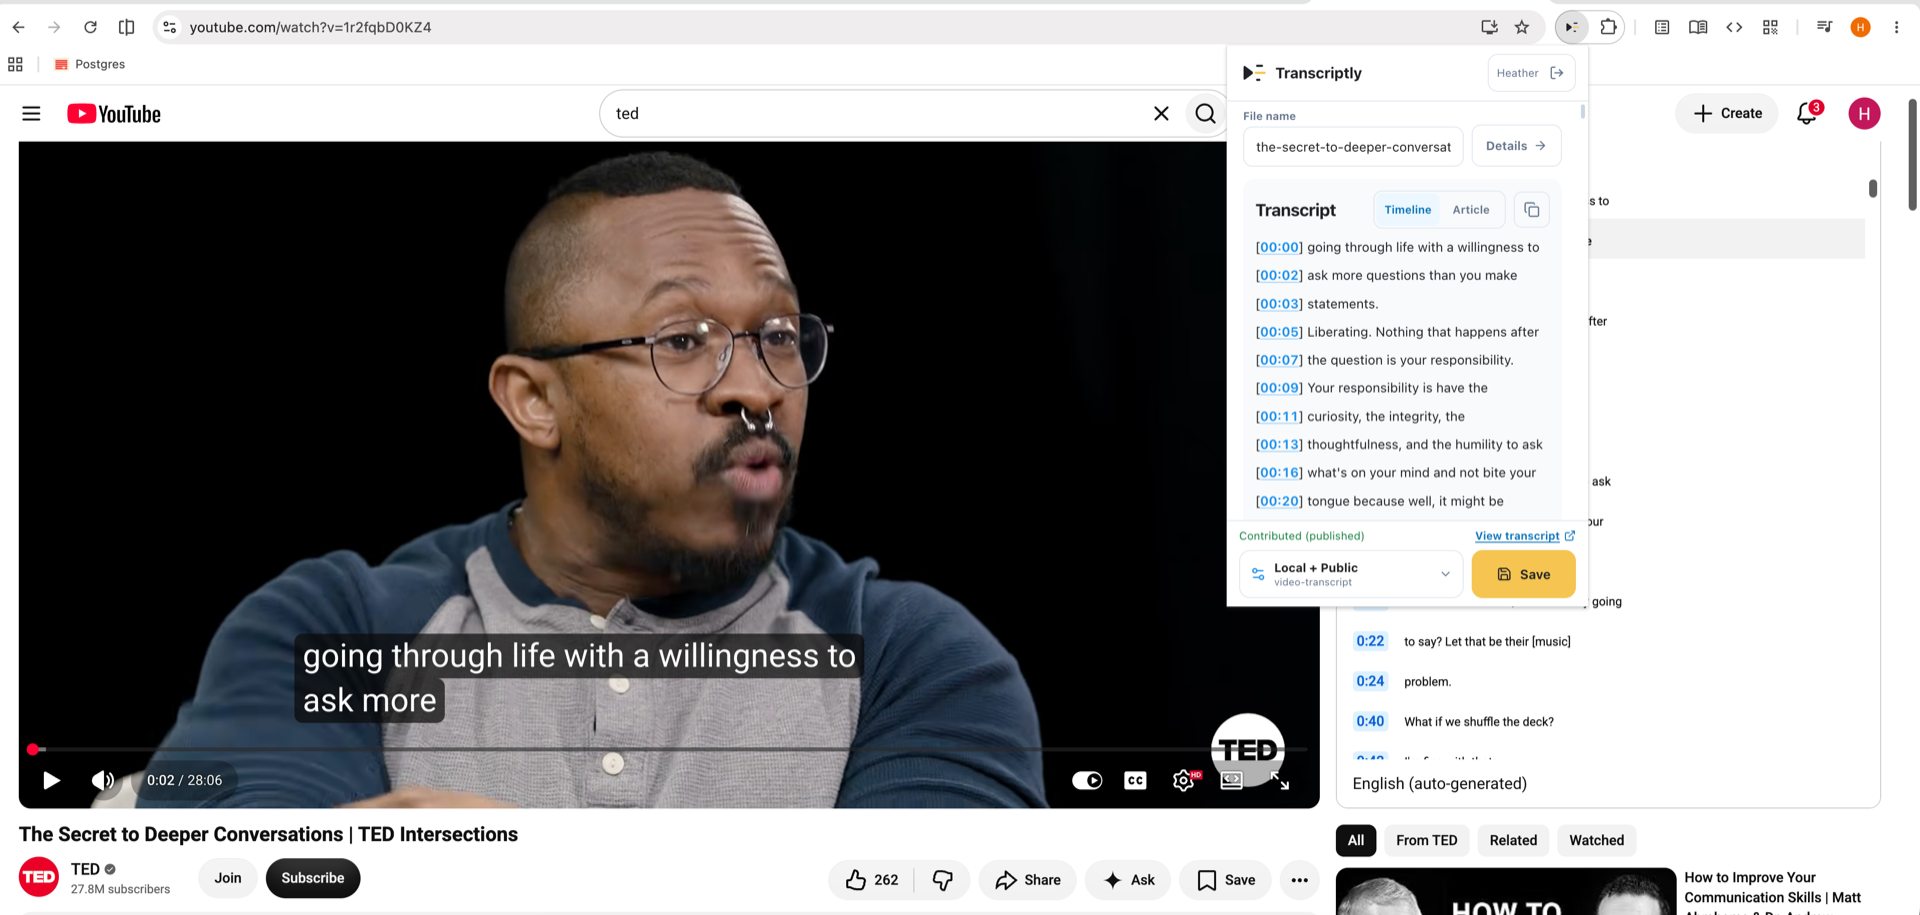
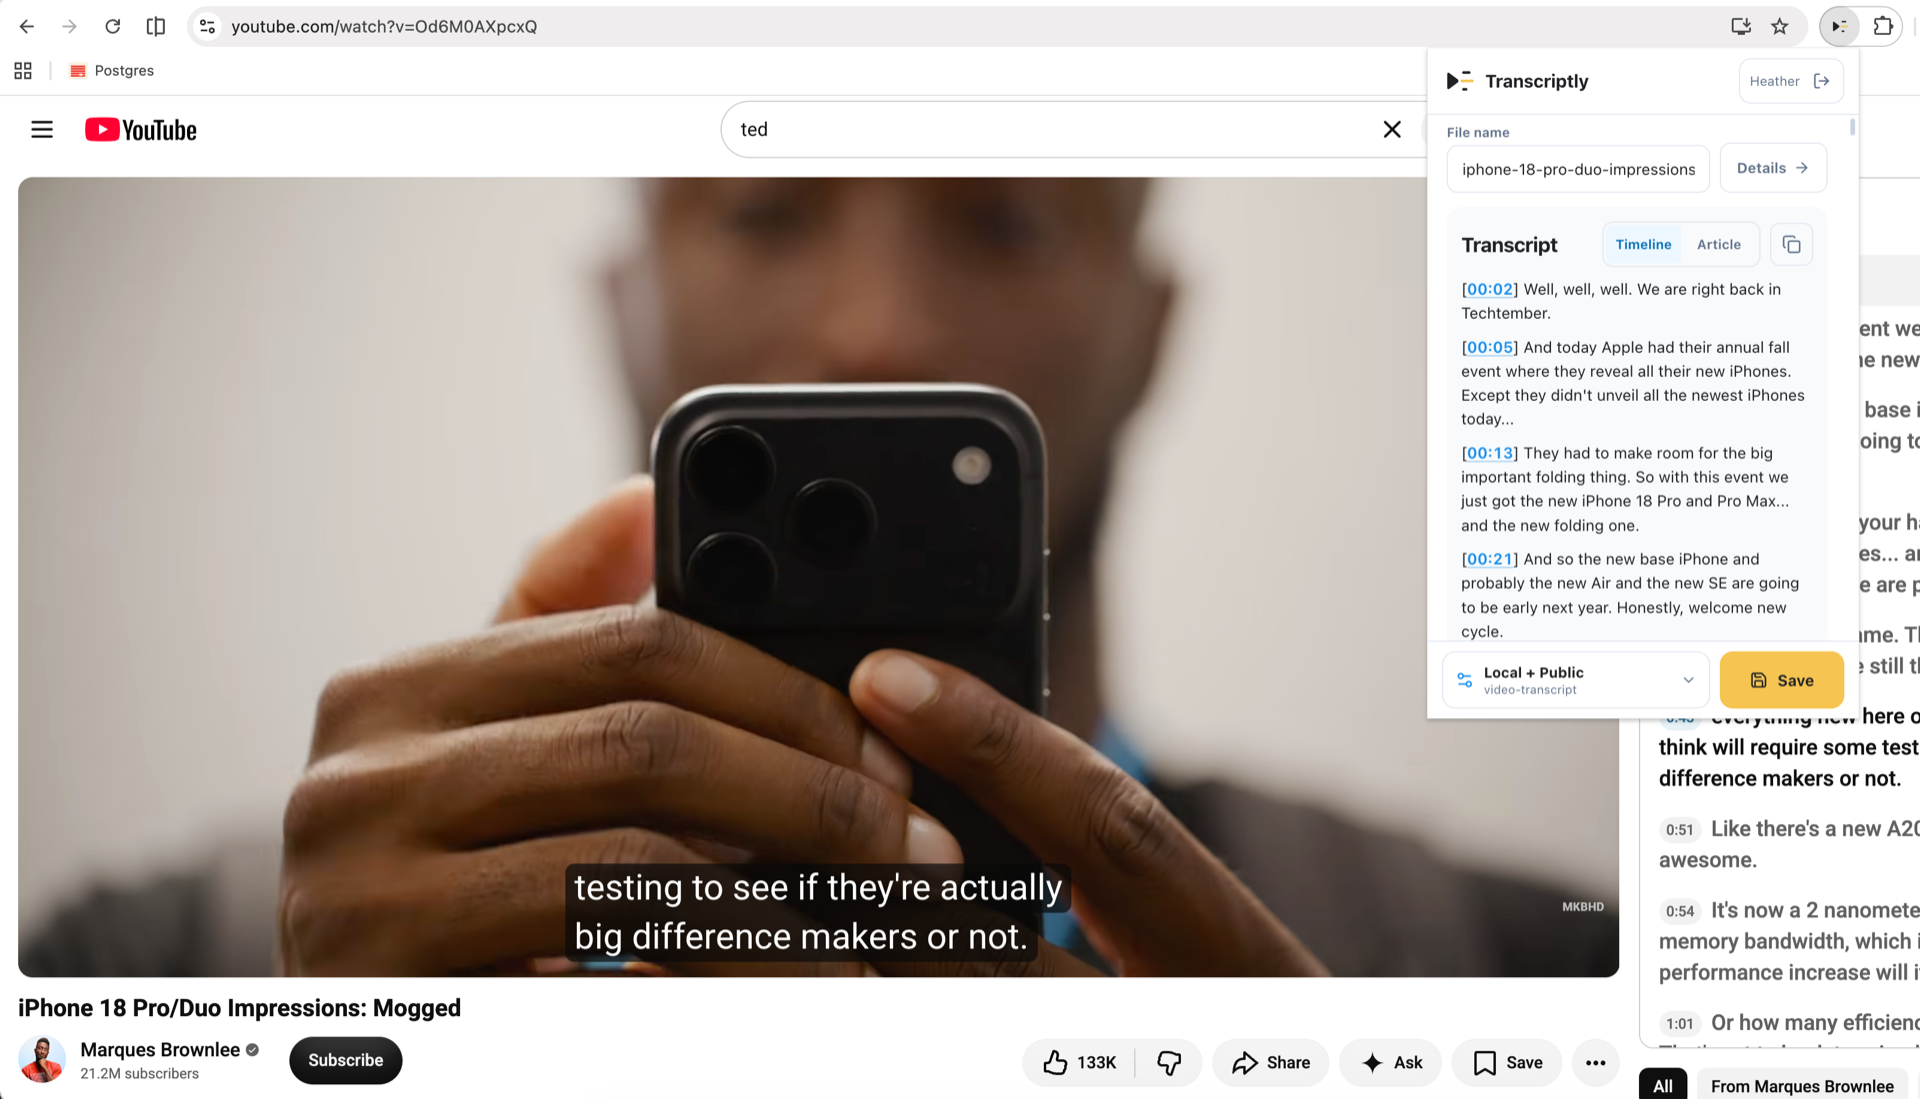
docs: improve README media (#124)
* docs: add product screenshots and Chinese README

- Add Screenshots section to README.md (capture popup, batch selection,
  batch manager) with images under docs/images/
- Add README.zh-CN.md, a full Chinese translation cross-linked from
  the English README

* docs: replace batch screenshot with demo video

* docs: embed batch demo from GitHub attachments

* docs: update single-video capture screenshot

diff --git a/README.md b/README.md
@@ -21,9 +21,7 @@ as timestamped Markdown, locally or to the public archive.
 **Batch workflow** — select videos on a channel or playlist, configure the
 batch, and start capturing.
 
-<video src="docs/images/batch-select.mp4" controls width="100%"></video>
-
-[Download the batch demo](docs/images/batch-select.mp4)
+<video src="https://github.com/user-attachments/assets/43da863d-c8e5-4623-9441-42a7c6e45c27" controls width="100%"></video>
 
 **Batch manager** — watch progress, pause, and retry individual videos while
 the batch runs in the background.
